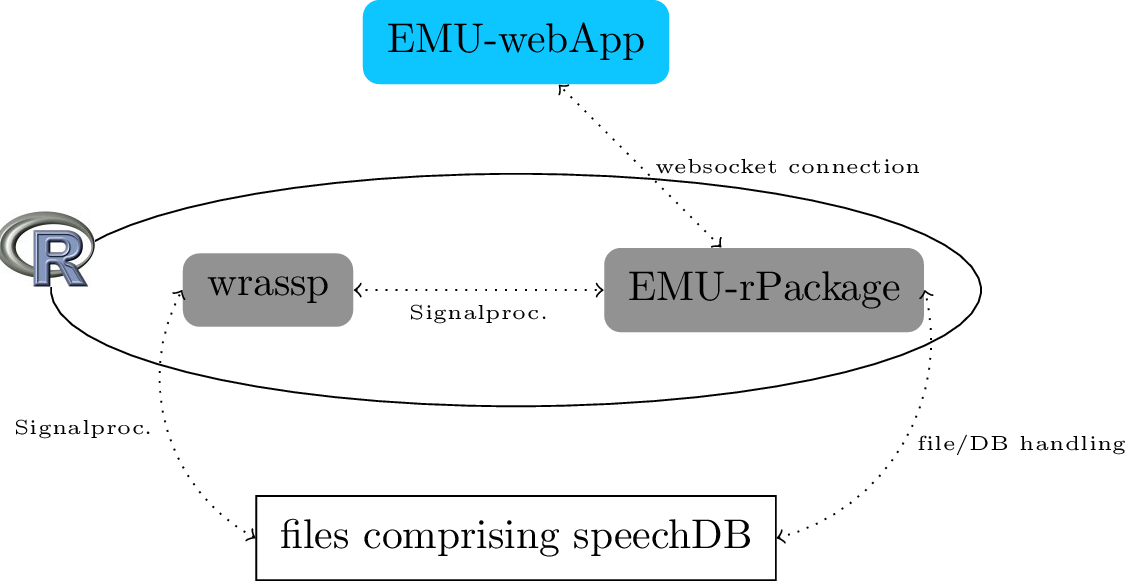
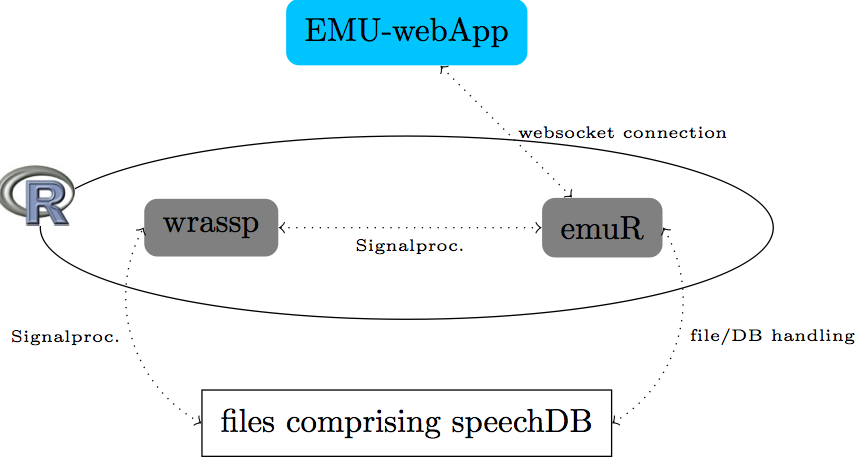
updated with new names and a few corrections

diff --git a/EMU.html b/EMU.html
@@ -57,7 +57,7 @@
       <a href="#EMU-webApp" data-toggle="tab">EMU-webApp</a>
     </li>
     <li>
-      <a href="#EMU-rPackage" data-toggle="tab">EMU-rPackage</a>
+      <a href="#emuR" data-toggle="tab">emuR</a>
     </li>
     <li>
       <a href="#wrassp" data-toggle="tab">wrassp</a>
@@ -78,15 +78,16 @@
 
       <div class="alert alert-warning"><b>NEWS:</b> 
         <ul>
-          <li>alpha version of wrassp R-package available<small class="date">(Juli 21, 2014)</small></li>
-          <li>alpha version of EMU-webApp available <small class="date">(June 10, 2014)</small></li>
+          <li>alpha version of <a href="https://github.com/IPS-LMU/emuR">emuR</a> R-package available<small class="date">(September 29, 2014)</small></li>
+          <li>alpha version of <a href="https://github.com/IPS-LMU/wrassp">wrassp</a> R-package available<small class="date">(Juli 21, 2014)</small></li>
+          <li>alpha version of <a href="https://github.com/IPS-LMU/EMU-webApp/">EMU-webApp</a> available <small class="date">(June 10, 2014)</small></li>
         </ul></div>
 
       <p class="ips-navtab-content-abstract">
         Due to several maintainability and other issues of the old EMU system, we have made the decision to reimplement the EMU speech database management system almost from scratch. In doing so we are trying to keep most of the concepts of the old system in place while improving on things like usability, maintainability, scalability, stability, speed and more.
       </p>
 
-      <div class="alert alert-info ips-navtab-content-abstract"><b>INFO:</b> This document is meant as an overview for the different components of the future EMU system and focuses on how they are supposed to work together to form the ecosystem that will be the next iteration of EMU. It tries to give a rough overview of how we plan for the system to be used and is by no means a definite guide to the new system, as this is still under development. The software that is described below is not yet available to the public. Please check back here as we hope to make parts of the system public in the near future. </div>
+      <div class="alert alert-info ips-navtab-content-abstract"><b>INFO:</b> This document is meant as an overview for the different components of the future EMU system and focuses on how they are supposed to work together to form the ecosystem that will be the next iteration of EMU. It tries to give a rough overview of how we plan for the system to be used and is by no means a definite guide to the new system, as this is still under development. The software that is described below is still considered an alpha release. So please use with caution...</div>
       
 
 
@@ -110,7 +111,7 @@
         <h3>Signal processing</h3>
       </div>
       <p>
-         The wrassp package will be responsible for the signal processing. The functions of this package take a list of audio file paths as their main argument and produce SSFF files containing the derived signals (e.g. formant contours / f0 contours/ ...). These files can then be read from the user's hard drive for further analysis. A new feature is the ability not to write the result of a signal processing function back to disc but to return it as an in-memory-object. This feature is utilized by the EMU-rPackage to do "on the fly" calculations for data extraction queries of SSFF files that have not been precalculated (i.e. that don't exist as files on the user's hard drive).
+         The wrassp package will be responsible for the signal processing. The functions of this package take a list of audio file paths as their main argument and produce SSFF files containing the derived signals (e.g. formant contours / f0 contours/ ...). These files can then be read from the user's hard drive for further analysis. A new feature is the ability not to write the result of a signal processing function back to disc but to return it as an in-memory-object. This feature is utilized by the emuR to do "on the fly" calculations for data extraction queries of SSFF files that have not been precalculated (i.e. that don't exist as files on the user's hard drive).
       </p>
 
 
@@ -118,7 +119,7 @@
         <h3>Querying the database</h3>
       </div>
       <p>
-        Database queries will be handled by the EMU-rPackage. Before querying a database the user will have to load the database into memory using a function that the package provides. Segment extraction queries can then be run against this object (similar to <a href="http://emu.sourceforge.net/manual/emu.query.html"><i>emu.query()</i></a>). As in the old system, the result of such a query can then be used to perform a data extraction query (similar to <a href="http://emu.sourceforge.net/manual/emu.track.html"><i>emu.track()</i></a>). Data extraction can either be performed on precalculated SSFF files or calculated on the fly utilizing the in-memory capability of the wrassp package. 
+        Database queries will be handled by the emuR. Before querying a database the user will have to load the database into memory using a function that the package provides. Segment extraction queries can then be run against this object (similar to <a href="http://emu.sourceforge.net/manual/emu.query.html"><i>emu.query()</i></a>). As in the old system, the result of such a query can then be used to perform a data extraction query (similar to <a href="http://emu.sourceforge.net/manual/emu.track.html"><i>emu.track()</i></a>). Data extraction can either be performed on precalculated SSFF files or calculated on the fly utilizing the in-memory capability of the wrassp package. 
       </p>
 
       <div class="page-header">
@@ -128,7 +129,7 @@
         The graphical user interface (GUI) of EMU will be a web application that runs in the browser (initially only Google's Chrome browser will be fully supported). To install the webApp the only thing the user will have to do is navigate to a specific URL. Using a HTML5 technology called <a href="http://www.w3.org/TR/2011/WD-html5-20110525/offline.html">the application cache</a> the browser intelligently caches the webApp so that the user can renavigate to the same URL, even without network connectivity, enabling online as well as offline usage. 
       </p>
       <p>
-        To use the webApp to work on a local database the user will have to use the EMU-rPackage to load the database into memory. This object then has to be passed into a function that starts a local <a href="http://www.w3.org/TR/2009/WD-websockets-20091222/">websocket</a> server that runs in R. Now the user simply has to point the webApp to the websocket server URL (e.g. <i>ws://localhost:8080</i>) using the connect button of the GUI. Once this connection is established the local database is displayed by the EMU-webApp.
+        To use the webApp to work on a local database the user will have to use the emuR to load the database into memory. This object then has to be passed into a function that starts a local <a href="http://www.w3.org/TR/2009/WD-websockets-20091222/">websocket</a> server that runs in R. Now the user simply has to point the webApp to the websocket server URL (e.g. <i>ws://localhost:8080</i>) using the connect button of the GUI. Once this connection is established the local database is displayed by the EMU-webApp.
       </p>
 
     </div>
@@ -153,20 +154,20 @@
       </ul>
     </div>
 
-    <!-- EMU-rPackage tab-->
-    <div id="EMU-rPackage" class="tab-pane ips-navtab-content">
+    <!-- emuR tab-->
+    <div id="emuR" class="tab-pane ips-navtab-content">
       <!-- <div class="alert alert-danger"><b>Warning!</b> This page is still under construction! Please don't read on! The information below is either incomplete or might even be false...</div> -->
 
-      <h1>EMU-rPackage</h1>
-      <div class="alert alert-warning"><b>STATUS:</b> not released yet...</div>
-
-      <p><em>TO DO: Write description</em></p>
+      <h1>emuR</h1>
+      <div class="alert alert-warning"><b>STATUS:</b> public alpha version available (see Links)</div>
+      <p>The new R library for the Emu Speech Database System</p>
+      <p><em>TODO: Write better description</em></p>
       <div class="page-header">
         <h3>Links</h3>
       </div>  
       <ul>
         <li><a onclick="alert('Not available yet! Sorry...')">CRAN</a></li>
-        <li><a onclick="alert('Not available yet! Sorry...')">GitHub project page</a></li>
+        <li><a href="https://github.com/IPS-LMU/emuR">GitHub project page</a></li>
       </ul>
     </div>
 
@@ -229,7 +230,7 @@
       <h4>What will the new annotation format look like?</h4>
 
       <div class="ips-callout ips-callout-info">
-        <p>Although we haven't worked out all the details yet, the annotation files will be stored in the <a href="http://en.wikipedia.org/wiki/JSON"><i>JSON</i></a> file format. In our JSON files we will use links to connect annotational units (called elements) to each other. These elements are also grouped in level arrays specifying the level they belong to.</p>
+        <p>Although we haven't worked out all the details yet, the annotation files will be stored in the <a href="http://en.wikipedia.org/wiki/JSON"><i>JSON</i></a> file format. In our JSON files we will use links to connect annotational units (called items) to each other. These items are grouped in level arrays specifying the level they belong to.</p>
       </div>
 
     </div>
